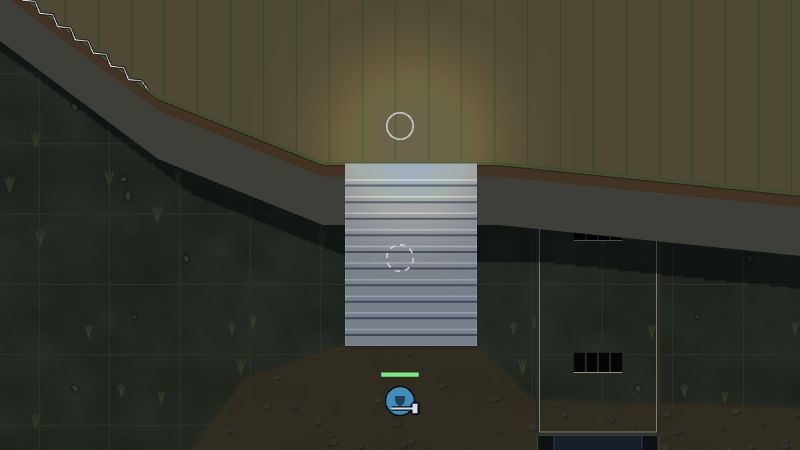
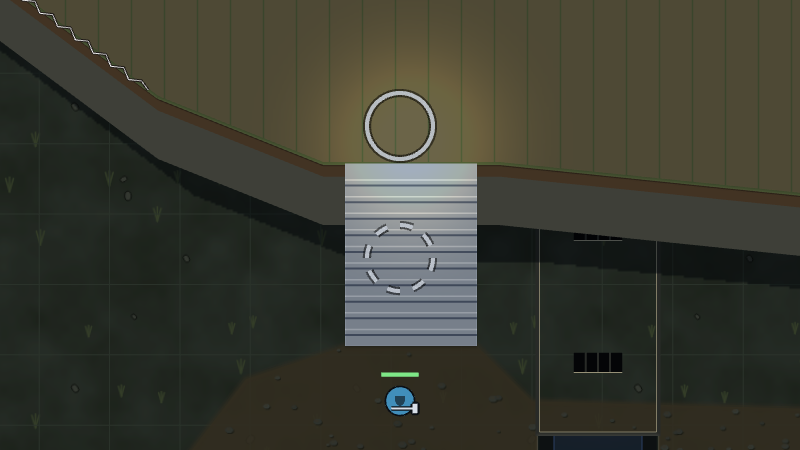
#3716: the Alt-click diagram's rings drawn larger, over a dark under-stroke
drawRing takes a scale: the pointer's ring passes 1 and is unchanged
(radius 12, 1.5 line, 0.8 alpha, eight dashes). The docs' fixed markers
draw at DIAGRAM_RING_SCALE 2.5 (radius 30, 3.75 line) over a black line
twice as wide at 0.5 alpha, so both rings read at the Help flyout's
~310 px on pale stair paving and dark ground alike. alt-click.png
re-rendered with pnpm docs:diagrams; no other diagram has markers.

diff --git a/apps/web/src/render/arena-scene.ts b/apps/web/src/render/arena-scene.ts
@@ -637,16 +637,49 @@ export interface SceneMarker {
   readonly dashed: boolean;
 }
 
-function drawRing(g: Phaser.GameObjects.Graphics, x: number, y: number, dashed: boolean): void {
-  g.lineStyle(1.5, HOVER_RING, 0.8);
+/**
+ * How much larger the docs' fixed rings are than the pointer's (#3716): a
+ * diagram is shown at about a third of its size, where the game's ring
+ * would be a 0.6 px line.
+ */
+export const DIAGRAM_RING_SCALE = 2.5;
+/** The dark line under a diagram's ring, so it reads on pale paving too (#3716). */
+const DIAGRAM_RING_UNDER = 0x000000;
+
+/** One hover ring, `scale` times the pointer's: dashed on the ground, solid off it. */
+export function drawRing(
+  g: Phaser.GameObjects.Graphics,
+  x: number,
+  y: number,
+  dashed: boolean,
+  scale: number,
+): void {
+  g.lineStyle(1.5 * scale, HOVER_RING, 0.8);
+  strokeRing(g, x, y, dashed, HOVER_RADIUS * scale);
+}
+
+/** A ring fixed on the map for a diagram (#3716): larger, over a dark under-stroke. */
+export function drawDiagramRing(g: Phaser.GameObjects.Graphics, marker: SceneMarker): void {
+  g.lineStyle(2 * 1.5 * DIAGRAM_RING_SCALE, DIAGRAM_RING_UNDER, 0.5);
+  strokeRing(g, marker.x, marker.y, marker.dashed, HOVER_RADIUS * DIAGRAM_RING_SCALE);
+  drawRing(g, marker.x, marker.y, marker.dashed, DIAGRAM_RING_SCALE);
+}
+
+function strokeRing(
+  g: Phaser.GameObjects.Graphics,
+  x: number,
+  y: number,
+  dashed: boolean,
+  radius: number,
+): void {
   if (!dashed) {
-    g.strokeCircle(x, y, HOVER_RADIUS);
+    g.strokeCircle(x, y, radius);
     return;
   }
   const dash = Math.PI / HOVER_DASHES;
   for (let k = 0; k < HOVER_DASHES; k += 1) {
     g.beginPath();
-    g.arc(x, y, HOVER_RADIUS, 2 * k * dash, (2 * k + 1) * dash);
+    g.arc(x, y, radius, 2 * k * dash, (2 * k + 1) * dash);
     g.strokePath();
   }
 }
@@ -4110,7 +4143,7 @@ export class ArenaScene extends Phaser.Scene {
   /** Where a click would go, before it does (#2831): a ring off the ground (#2973), dashed on it. */
   private drawHoverMarker(g: Phaser.GameObjects.Graphics): void {
     for (const marker of this.fixedMarkers ?? []) {
-      drawRing(g, marker.x, marker.y, marker.dashed);
+      drawDiagramRing(g, marker);
     }
     const { structure, walls } = this.snapshot;
     const pointer = this.input.activePointer;
@@ -4125,7 +4158,7 @@ export class ArenaScene extends Phaser.Scene {
       this.alt?.held() === true,
       selfLayer(this.snapshot),
     );
-    drawRing(g, world.x, world.y, layer === structure.ground);
+    drawRing(g, world.x, world.y, layer === structure.ground, 1);
   }
 
   /** Each lift's platform where the snapshot has it now (#3079), drawn afresh every frame. */

diff --git a/apps/web/src/render/arena-scene.test.ts b/apps/web/src/render/arena-scene.test.ts
@@ -5,7 +5,8 @@ import { ARENA_ATLAS_JSON, ARENA_ATLAS_SVG } from "./arena-atlas.js";
 // Phaser probes for a browser when it loads: the scene only needs a base class.
 vi.mock("phaser", () => ({ default: { Scene: Object } }));
 
-const { ArenaScene } = await import("./arena-scene.js");
+const { ArenaScene, DIAGRAM_RING_SCALE, drawDiagramRing, drawRing } =
+  await import("./arena-scene.js");
 // Loaded once here, not in the tunnel tests: the first import is most of
 // their time (#3672).
 const { mapStructure } = await import("../net/maps.js");
@@ -20,6 +21,46 @@ describe("ArenaScene preload (#1671)", () => {
     };
     ArenaScene.prototype.preload.call(Object.assign(Object.create(ArenaScene.prototype), { load }));
     expect(queued).toEqual([`/${ARENA_ATLAS_SVG}`, `/${ARENA_ATLAS_JSON}`]);
+  });
+});
+
+/** A Graphics that writes down each stroke it is asked for. */
+function strokeLog(): { g: Parameters<typeof drawRing>[0]; log: string[] } {
+  const log: string[] = [];
+  const g = {
+    lineStyle: (width: number, colour: number, alpha: number) =>
+      log.push(`line ${String(width)} ${colour.toString(16)} ${String(alpha)}`),
+    strokeCircle: (x: number, y: number, radius: number) =>
+      log.push(`circle ${String(x)},${String(y)} r${String(radius)}`),
+    beginPath: () => undefined,
+    arc: (x: number, y: number, radius: number) =>
+      log.push(`arc ${String(x)},${String(y)} r${String(radius)}`),
+    strokePath: () => undefined,
+  };
+  return { g: g as unknown as Parameters<typeof drawRing>[0], log };
+}
+
+describe("the hover ring (#2831, #3716)", () => {
+  it("draws the pointer's ring as it always has: radius 12, a 1.5 line, eight dashes on the ground", () => {
+    const solid = strokeLog();
+    drawRing(solid.g, 10, 20, false, 1);
+    expect(solid.log).toEqual(["line 1.5 d7dee8 0.8", "circle 10,20 r12"]);
+    const dashed = strokeLog();
+    drawRing(dashed.g, 10, 20, true, 1);
+    expect(dashed.log).toEqual(["line 1.5 d7dee8 0.8", ...Array(8).fill("arc 10,20 r12")]);
+  });
+
+  it("draws a diagram's fixed ring larger, over a dark under-stroke twice as wide", () => {
+    const { g, log } = strokeLog();
+    drawDiagramRing(g, { x: 5, y: 6, dashed: true });
+    const radius = 12 * DIAGRAM_RING_SCALE;
+    const line = 1.5 * DIAGRAM_RING_SCALE;
+    expect(log).toEqual([
+      `line ${String(2 * line)} 0 0.5`,
+      ...Array(8).fill(`arc 5,6 r${String(radius)}`),
+      `line ${String(line)} d7dee8 0.8`,
+      ...Array(8).fill(`arc 5,6 r${String(radius)}`),
+    ]);
   });
 });
 
